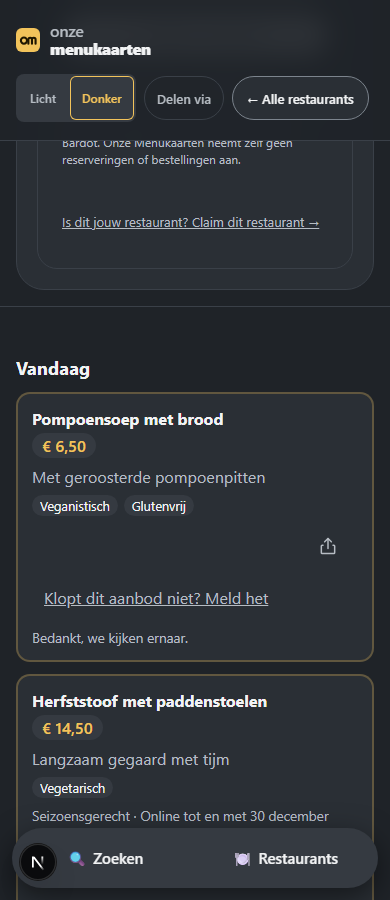
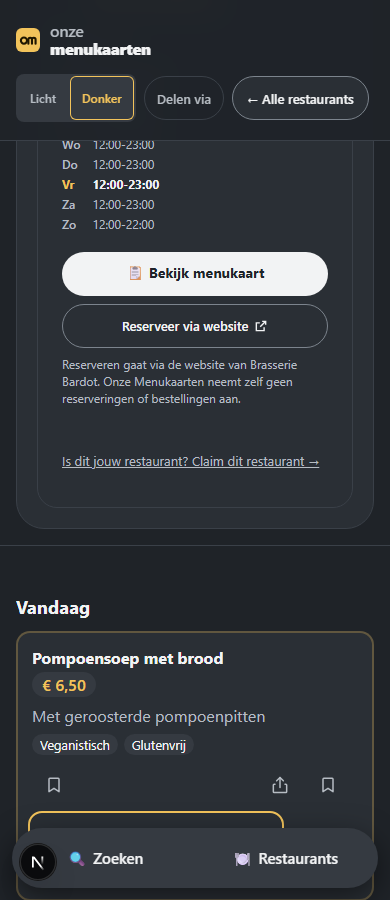
test(be55): browserbewijs Vandaag en melden, stylesheetlijst bijgewerkt (#135)

diff --git a/app/globals-css.test.js b/app/globals-css.test.js
@@ -151,7 +151,10 @@ test('geen CSS-modules: elk stylesheet is een gewoon .css-bestand naast zijn cod
     'app/globals.css',
     'app/internal/tellers/tellers.css',
     'app/kies/kies.css',
+    // BE-55: aanbodformulier en het blok "Vandaag", beide naast hun code.
+    'app/mijn-restaurant/aanbod/aanbod.css',
     'app/mijn-restaurant/mijn-restaurant.css',
+    'src/components/daghap-vandaag.css',
     'src/components/kies-start.css',
   ]);
   assert.deepEqual(stylesheets.filter((file) => file.endsWith('.module.css')), [], 'geen CSS-modules');

diff --git a/ops/browser/README.md b/ops/browser/README.md
@@ -1,5 +1,29 @@
 # Isolated browser fixture — #59 menu import/review
 
+## BE-55 part B: "Vandaag" and reporting (#135)
+
+`run-be55-browser-check.js` (also `npm run test:browser:be55`) drives
+`/restaurant/6` and `/menu/6-diner` with a fictional daghap API stubbed in the
+page (ops/browser/lib/be55-daghap-stub.js), on a local dev server and a real
+browser:
+
+- the "Vandaag" block shows one card per offer with its name, price pill,
+  description, labels, the season line, "Bewaar", "Deel" and "Klopt dit aanbod
+  niet? Meld het"; the card has a 2 px border; the block is labelled by its own
+  heading;
+- no offer (`?leeg=1`) means no block at all;
+- reporting shows a confirmation, a second tap from the same device says it was
+  already reported, and exactly one random device value (no account, no IP) is
+  sent;
+- light and dark at 1280, 390 and 320 px, no horizontal overflow, a visible
+  focus ring, a 44 px tap target and 4.5:1 contrast on the new text;
+- screenshots and `be55-browser-evidence.json` in `ops/browser/evidence/`.
+
+The server rules (three reports, limits, filter) are *not* proven here: they live
+in `src/lib/daghapHandlers.test.js`. The harness runs `next dev`, so run
+`next build` again before the performance budget test. Developer evidence on a
+local machine — not production, not independent acceptance.
+
 ## BE-42 part 1: menu names as buttons and softer prices (#98)
 
 `run-be42-browser-check.js` drives the real production build (`next start`, no
